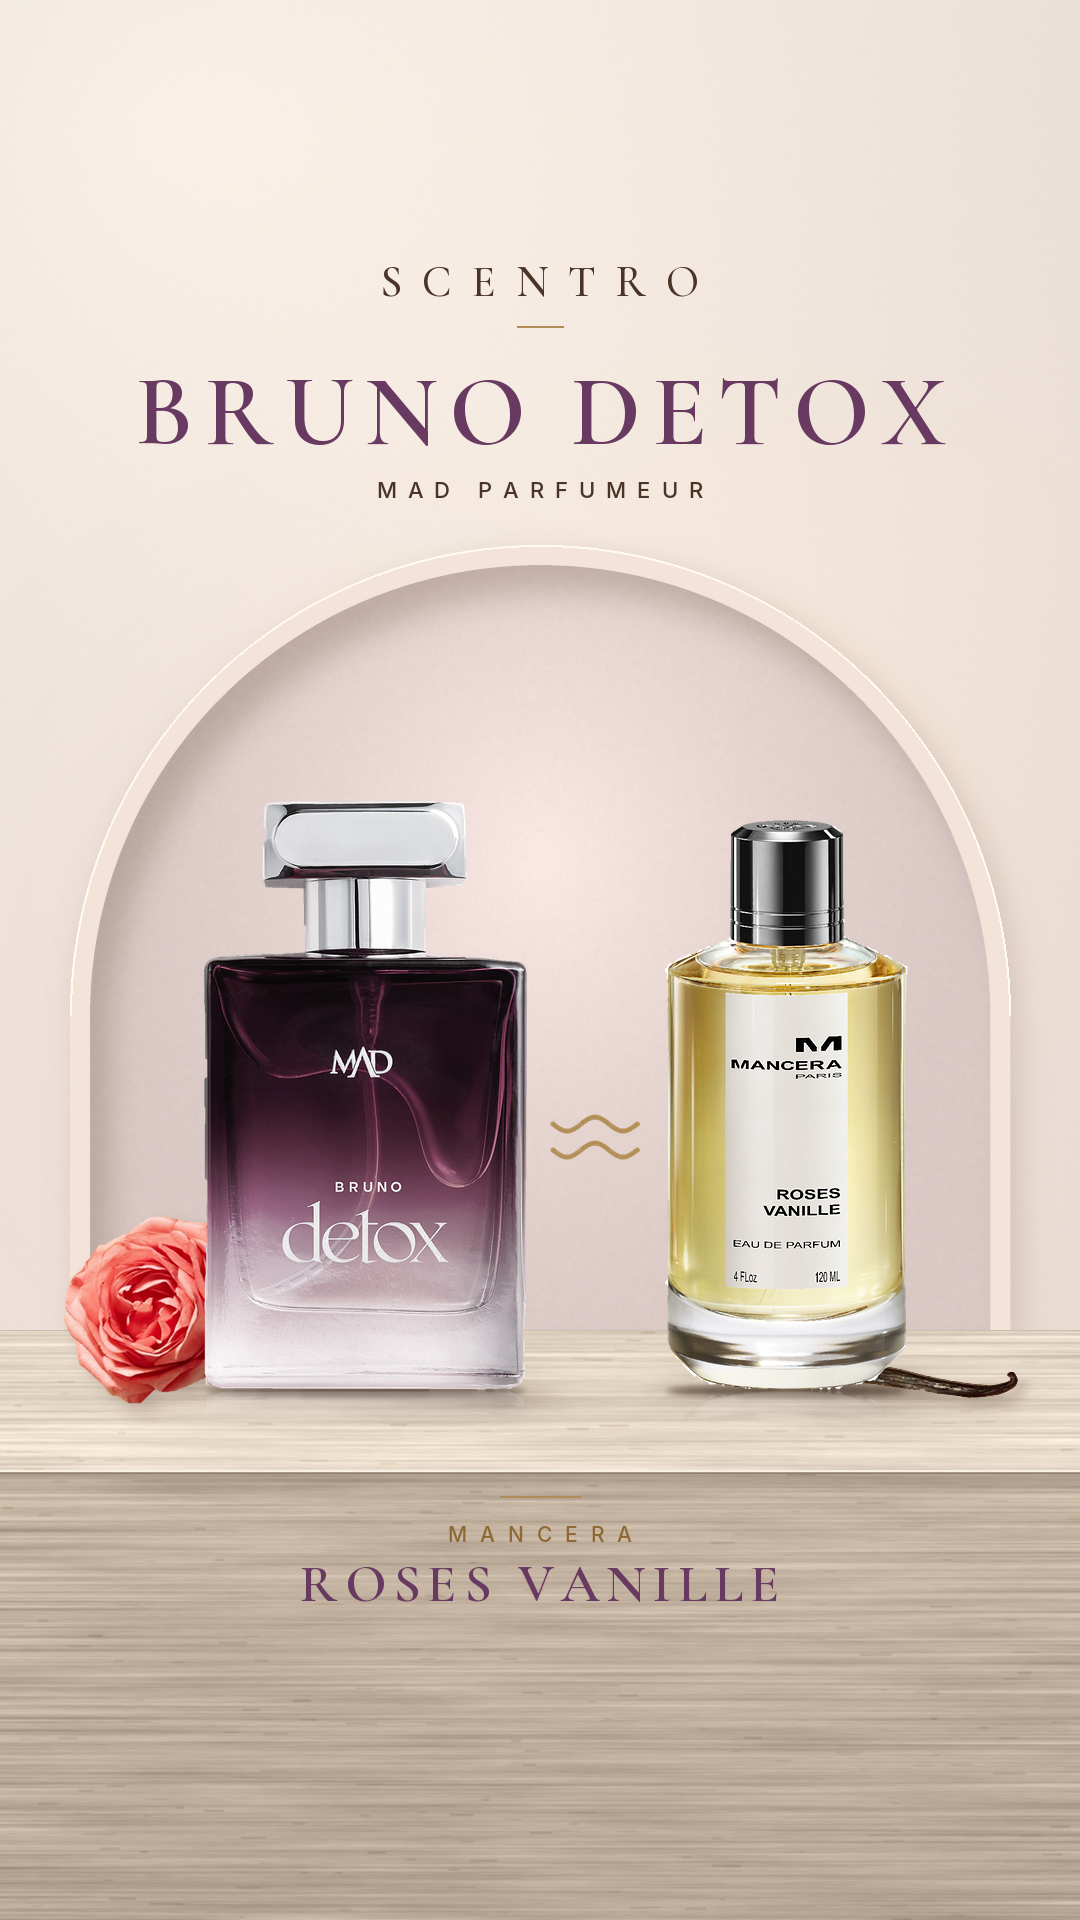
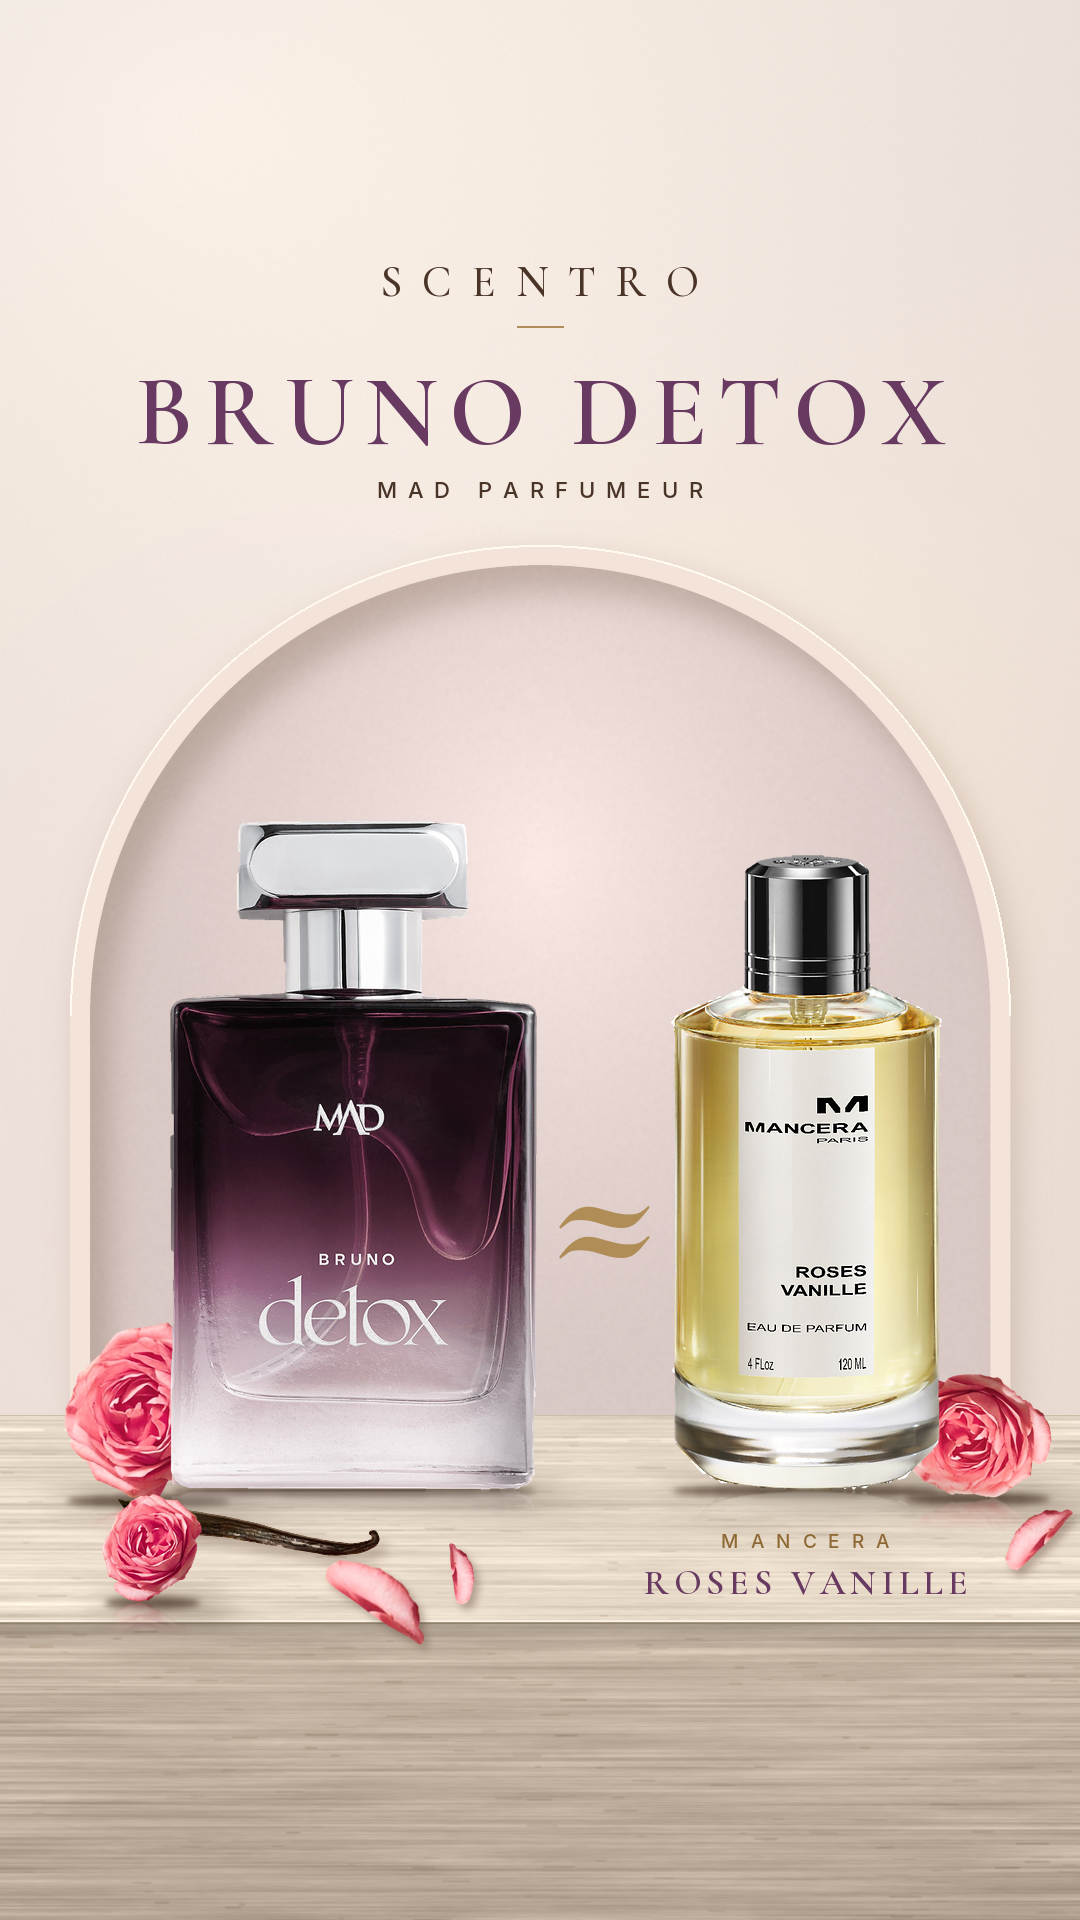
Bruno Detox x Mancera Story v2: grouped rose/petal/vanilla arrangement, larger bottles, caption under Mancera, single approx-equal glyph
Claude-Session: https://claude.ai/code/session_01UApyk7Kdwc7MEVpfJtnJsr

Changed region(s): [[0.0, 0.4062, 1.0, 0.875], [0.9778, 0.9688, 1.0, 1.0]]

diff --git a/scentro/stories/build_stories.py b/scentro/stories/build_stories.py
@@ -3,6 +3,7 @@ Real product photographs (cut out, never redrawn) composited into a lit scene. R
 Safe zones: nothing important above y=250 or below y=1620.   Usage (from scentro/):  python3 stories/build_stories.py [nyn|gs ...]"""
 import os, sys
 import numpy as np
+import cv2
 from PIL import Image, ImageDraw, ImageFilter
 from scipy import ndimage as ndi
 sys.path.insert(0, os.path.dirname(os.path.dirname(os.path.abspath(__file__))))
@@ -301,6 +302,68 @@ def story_bd():
     nf, _ = B.fit_width(d, 'ROSES VANILLE', CORM, 'SemiBold', 54, 760, track_px=7)
     tracked_in(d, 540, 1584, 'ROSES VANILLE', nf, mauve, 7)
     check_safe('bd', {'header': (255, 505), 'bottom block': (1480, 1612)})
+    return img
+
+
+# ---------------------------------------------------------------- Bruno Detox x Mancera Roses Vanille  v2 (refined: ingredient groupings, bigger bottles)
+def tint_rgba(im, dh=0, ds=1.0, dv=1.0):
+    """Hue/sat/value nudge on real pixels (coral -> blush pink), alpha untouched."""
+    a = np.array(im.convert('RGBA')); hsv = cv2.cvtColor(a[..., :3], cv2.COLOR_RGB2HSV).astype(np.float32)
+    hsv[..., 0] = (hsv[..., 0] + dh / 2) % 180; hsv[..., 1] = np.clip(hsv[..., 1] * ds, 0, 255); hsv[..., 2] = np.clip(hsv[..., 2] * dv, 0, 255)
+    a[..., :3] = cv2.cvtColor(hsv.astype(np.uint8), cv2.COLOR_HSV2RGB); return Image.fromarray(a)
+
+
+def prop(path, height, angle=0, flip=False, tint=(0, 1.0, 1.0), tag='p'):
+    im = Image.open(path).convert('RGBA')
+    if flip: im = im.transpose(Image.FLIP_LEFT_RIGHT)
+    if angle: im = im.rotate(angle, expand=True, resample=Image.BICUBIC)
+    im = tint_rgba(crop_alpha(im), *tint); fn = f'/tmp/_prop_{tag}.png'; im.save(fn); return B.load_clean(fn, height)
+
+
+def story_bd():
+    canvas(arch_top=545, arch_r=470, surf_top=1415, surf_front=1620, base_y=1490)
+    s = dict(bg_a=(249, 241, 231), bg_b=(238, 222, 214), niche_rgb=(234, 216, 212), stone=(1, -1, 2))
+    img = B.background(s)
+    glow(img, 340, 1060, 600, 660, (200, 160, 196), 0.15)            # soft mauve bloom behind Bruno Detox
+    glow(img, 770, 820, 600, 520, (255, 226, 190), 0.20)             # champagne light on the right
+    B.niche(img, s); B.travertine(img, s)
+    C = 'stories/assets/cutouts/'
+    mad = B.load_clean(C + 'bd_bottle.png', 670); mv = B.load_clean(C + 'mancera_rv_r.png', 635)
+    gap = 132; total = mad.width + gap + mv.width; left = 556 - total / 2
+    mad_cx = left + mad.width / 2; mv_cx = left + mad.width + gap + mv.width / 2; mv_r = left + total; BY = B.BASE_Y
+
+    # ---- ingredients: real photographic rose / petal / vanilla pixels, grouped at the bottle bases, always behind or beside the glass
+    rose_a = prop(C + 'ing_rose_bd.png', 178, angle=18, tint=(-11, 0.92, 1.03), tag='ra')
+    B.stage_bottle(img, rose_a, left + 62 - rose_a.width / 2, BY + 10)                                    # tucked behind Bruno Detox, left
+    rose_c = prop(C + 'ing_rose_bd.png', 124, angle=205, flip=True, tint=(-7, 0.88, 1.06), tag='rc')
+    B.stage_bottle(img, rose_c, mv_r - 40 + rose_c.width / 2, BY + 8)                                      # tucked behind Mancera, right
+    pod = Image.open(C + 'ing_vanilla_pod_single.png').convert('RGBA').rotate(216, expand=True, resample=Image.BICUBIC)
+    pod = crop_alpha(pod); k = 262 / pod.width; pod = pod.resize((262, max(1, int(pod.height * k))), Image.LANCZOS); pod.save('/tmp/_pod2.png'); pod = B.load_clean('/tmp/_pod2.png', pod.height)
+    pod_x = int(left - 52); pod_y = BY + 66 - pod.height
+    drop_shadow(img, pod, pod_x, pod_y, dx=7, dy=9, blur=6, op=0.36)                                      # lies on the stone, front-left
+    B.stage_bottle(img, mad, mad_cx, BY); B.stage_bottle(img, mv, mv_cx, BY)
+    rose_b = prop(C + 'ing_rose_bd.png', 108, angle=95, flip=True, tint=(-14, 0.95, 1.02), tag='rb')
+    B.stage_bottle(img, rose_b, left - 8 - rose_b.width / 2 + 40, BY + 112)                                # small front rose, hides the pod's cut end
+    petals = [(C + 'petal_a.png', 86, 38, False, (-10, 0.92, 1.04), left + 205, BY + 112),
+              (C + 'petal_a.png', 62, 205, True, (-12, 0.9, 1.05), left + 292, BY + 84),
+              (C + 'petal_a.png', 62, 118, False, (-9, 0.9, 1.04), mv_r + 98, BY + 50)]
+    for n, (p, h, ang, fl, tt, px_, py_) in enumerate(petals):
+        pt = prop(p, h, angle=ang, flip=fl, tint=tt, tag=f'pt{n}'); drop_shadow(img, pt, int(px_ - pt.width / 2), int(py_ - pt.height / 2), dx=5, dy=6, blur=4, op=0.38)
+
+    # single refined approximately-equal sign, centred in the gap at glass height
+    d = ImageDraw.Draw(img); brown, gold = (74, 52, 40), (176, 141, 87); mauve = (104, 58, 98)
+    ef = B.font(CORM, 215, 'SemiBold'); d.text((left + mad.width + gap / 2, BY - 285), '≈', font=ef, fill=gold, anchor='mm')
+
+    tracked_in(d, 540, 282, 'SCENTRO', B.font(CORM, 44, 'Medium'), brown, 20)
+    d.line((517, 326, 563, 326), fill=gold, width=2)
+    tf, size = B.fit_width(d, 'BRUNO DETOX', CORM, 'SemiBold', 100, 860, track_ratio=.11)
+    tracked_in(d, 540, 412, 'BRUNO DETOX', tf, mauve, size * .11)
+    tracked_in(d, 540, 490, 'MAD PARFUMEUR', B.font(INTER_M, 22), brown, 11)
+    # caption directly under its own bottle (Mancera), on the stone
+    tracked_in(d, mv_cx, 1541, 'MANCERA', B.font(INTER_M, 19), (143, 105, 52), 12)
+    nf, _ = B.fit_width(d, 'ROSES VANILLE', CORM, 'SemiBold', 42, 330, track_px=5)
+    tracked_in(d, mv_cx, 1582, 'ROSES VANILLE', nf, mauve, 5)
+    check_safe('bd', {'header': (255, 505), 'caption': (1525, 1602)})
     return img
 
 

diff --git a/scentro/stories/README.md b/scentro/stories/README.md
@@ -18,3 +18,6 @@ Golden Soul: official madparfum.com page images top out at 615 px and Fragrantic
 `python3 stories/build_stories.py bd` -> `stories/output/scentro_bruno_detox_vs_mancera_roses_vanille_story.png` (1080x1920).
 Sources: MAD Bruno Detox bottle = official MAD Singapore store 2000 px bottle-only photo; Mancera Roses Vanille = Fragrantica id 15210 (900x1200); rose = official Bruno Detox flat-lay (2000 px); vanilla pod = official New York Night flat-lay (2000 px). All real pixels, cut out only.
 Per the brief: no "Inspired by", no slogans, hand-drawn gold "approx equal" sign between the bottles. Pairing (Roses Vanille) supplied by the owner; the earlier 10-slide collection paired Bruno Detox with Delox - flagged.
+
+### Bruno Detox x Mancera - refined v2
+Bigger bottles (670 / 635 px), deeper surface so the "MANCERA / ROSES VANILLE" caption sits directly under its bottle, single Cormorant approx-equal glyph. Ingredients regrouped at the bottle bases: three roses + three petals cut from the official 2000 px Bruno Detox flat-lay rose (rotated / flipped / tinted blush so they are not identical), one real vanilla pod from the official New York Night flat-lay. Real vanilla-orchid flowers could not be sourced (Wikimedia rate-limited, no suitable photo in MAD's flat-lays) - not included.
